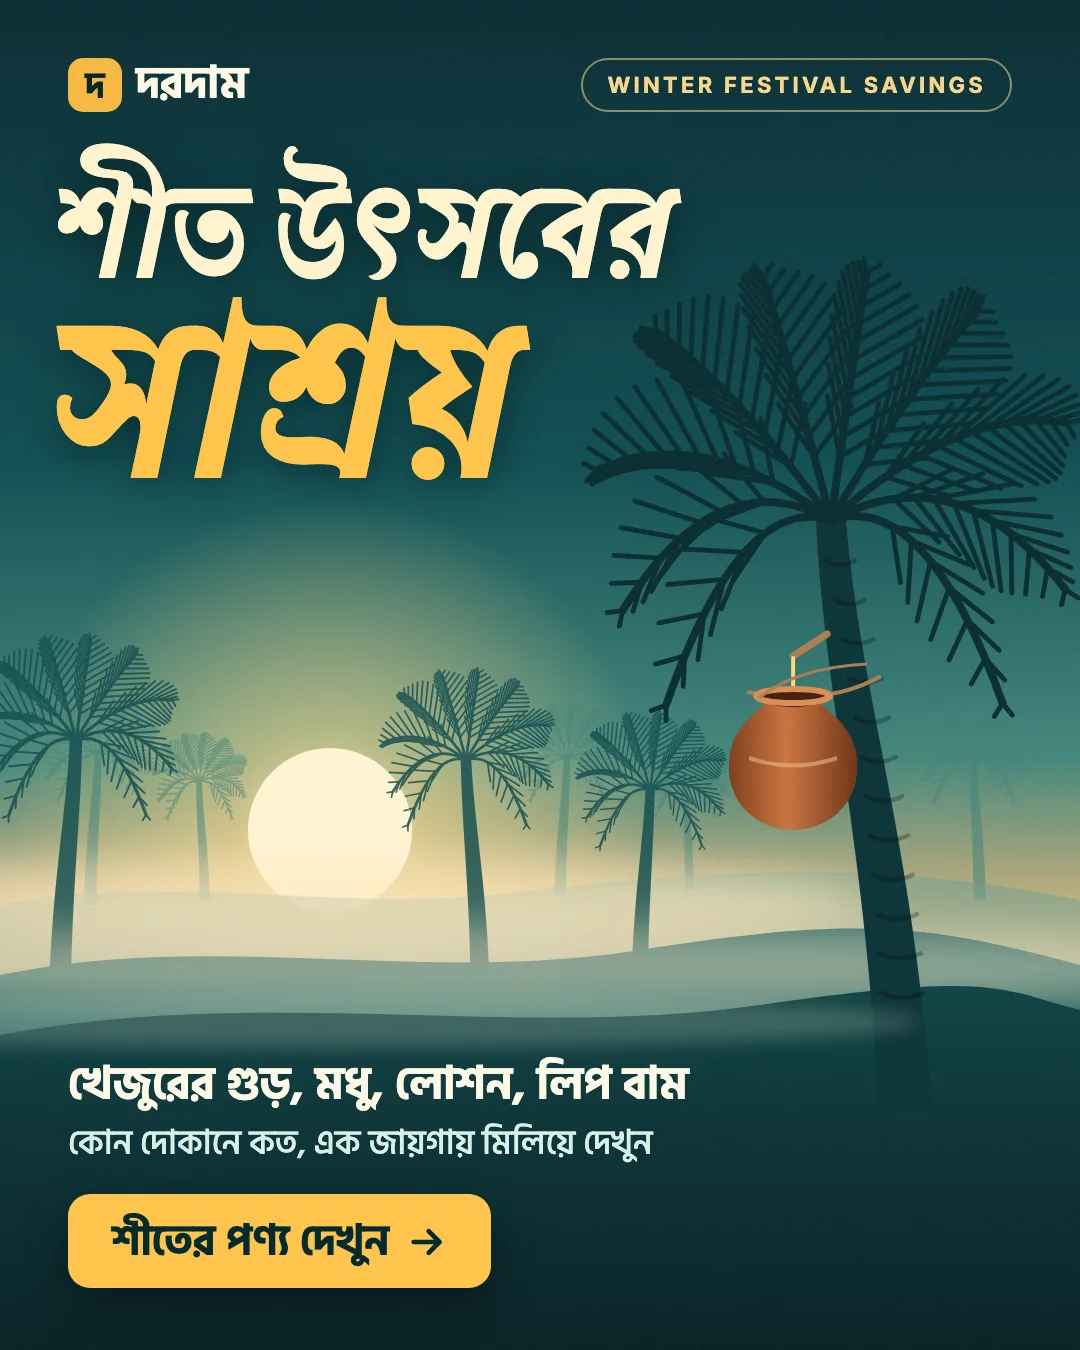
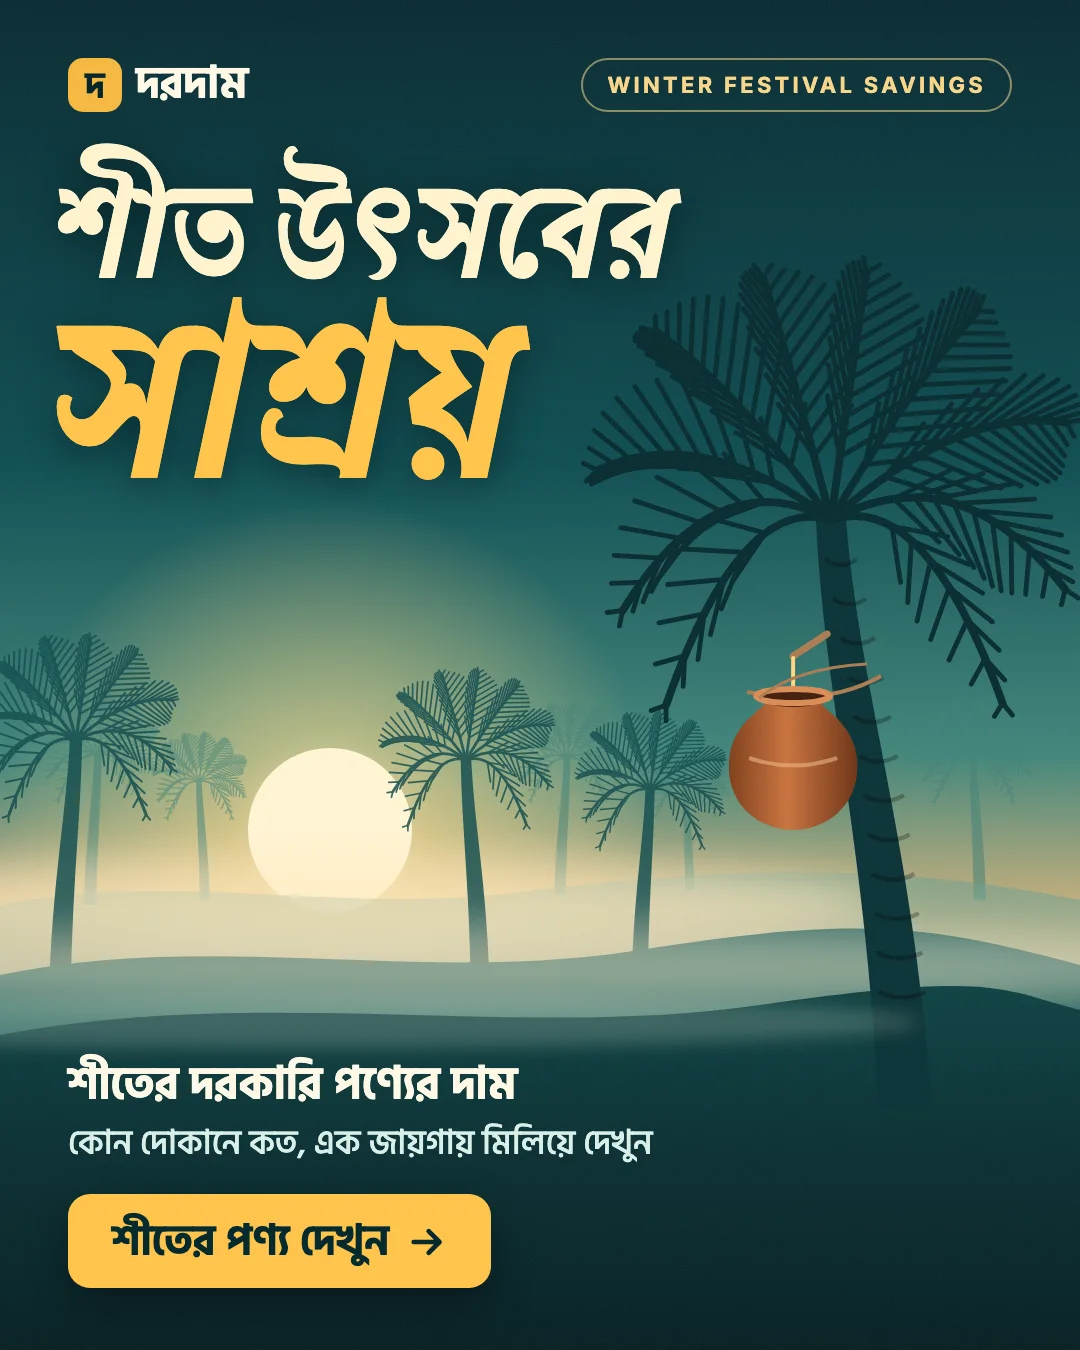
fix: পোস্টারে নির্দিষ্ট পণ্যের নাম নয়, পণ্য বাড়লেও লেখা ঠিক থাকবে

Changed region(s): [[0.0611, 0.7778, 0.6417, 0.84]]

diff --git a/src/config/site.ts b/src/config/site.ts
@@ -35,7 +35,7 @@ export const DEFAULT_SETTINGS: SiteSettings = {
   popupEnabled: false,
   popupImage: "/banners/winter-festival.webp",
   popupLink: "/category/winter/",
-  popupAlt: "শীত উৎসবের সাশ্রয়: খেজুরের গুড়, মধু, লোশন আর লিপ বামের দাম এক জায়গায়",
+  popupAlt: "শীত উৎসবের সাশ্রয়: শীতের দরকারি পণ্যের দাম এক জায়গায়",
   aboutWho: "দরদাম একটা স্বাধীন দাম-তুলনার সাইট। আমরা কোনো দোকান নই, কিছু বিক্রিও করি না, কোনো দোকানের হয়ে কাজও করি না।",
   aboutWhoEn: "Dordam is an independent price comparison site. We're not a shop, we don't sell anything, and we don't work for any shop.",
   aboutWhat: "বাংলাদেশের দোকানগুলো থেকে একই পণ্যের দাম জোগাড় করে পাশাপাশি দেখাই, যাতে কেনার আগে যাচাই করে সবচেয়ে ভালো দামে কিনতে পারেন।",
